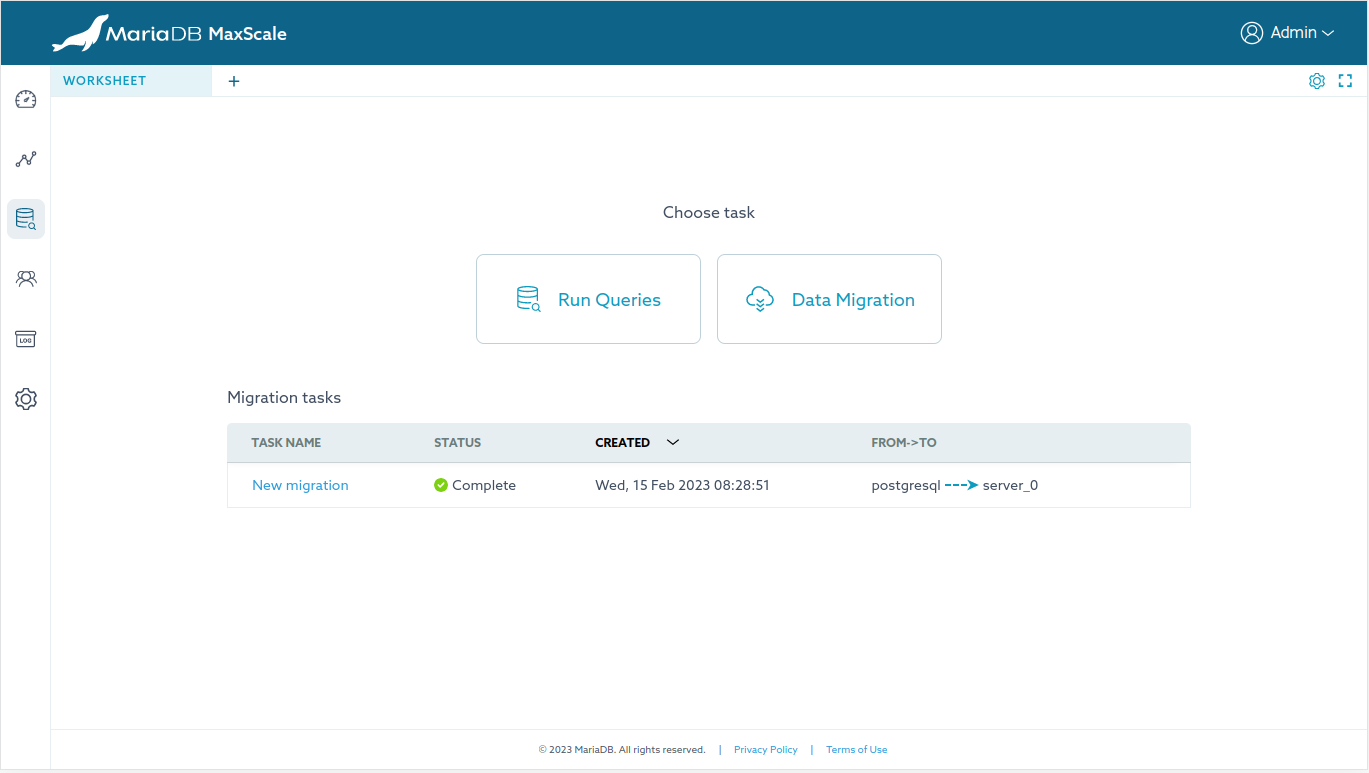
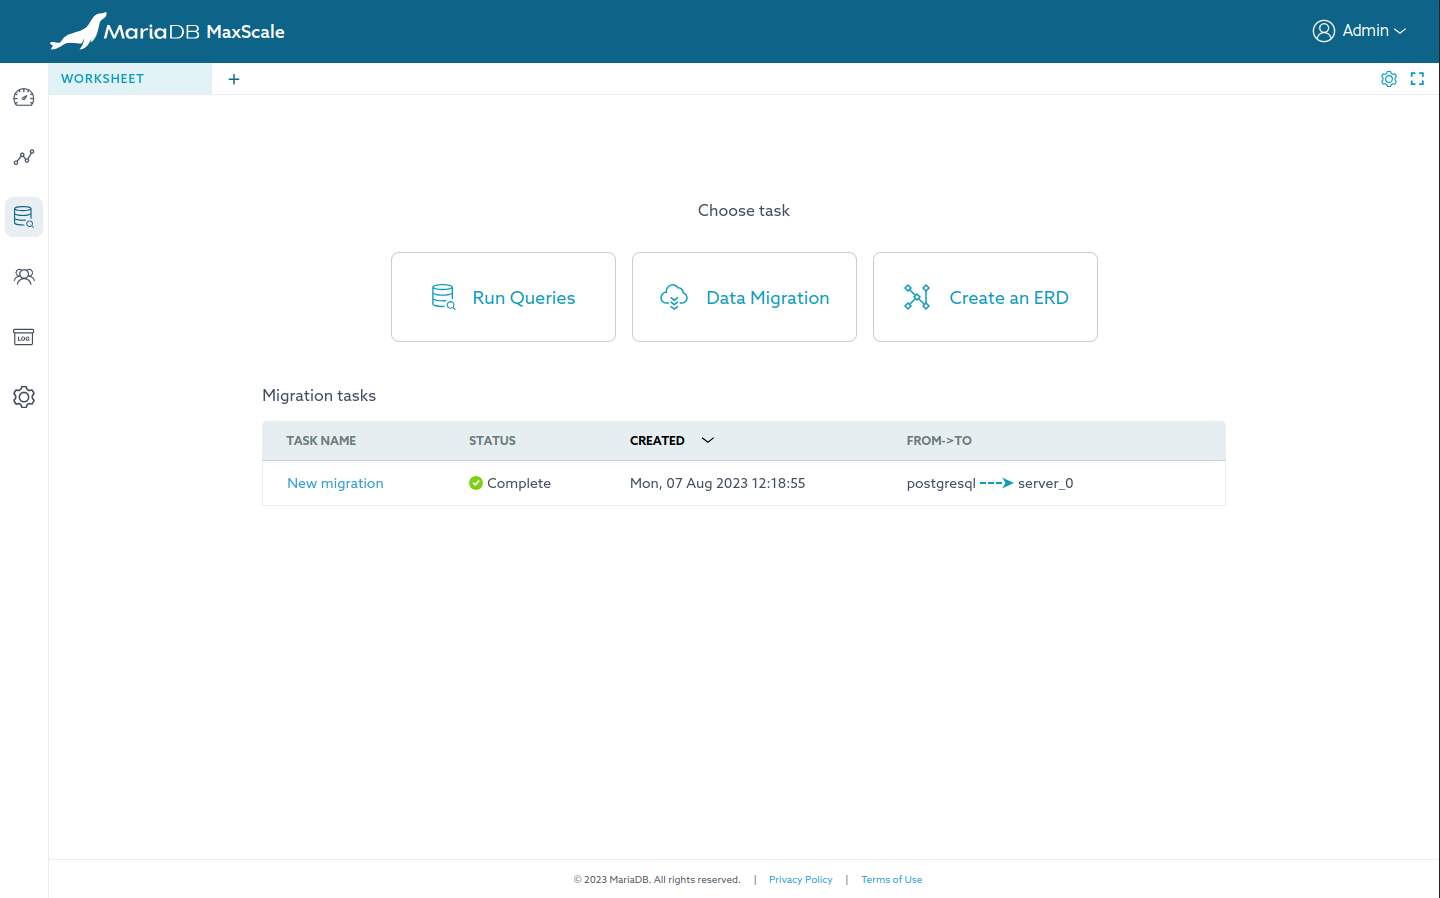
MXS-3735 Update maxgui tutorial and release notes
This adds tutorial for using the ERD and updates
maxgui release notes.

diff --git a/Documentation/Tutorials/Using-MaxGUI-Tutorial.md b/Documentation/Tutorials/Using-MaxGUI-Tutorial.md
@@ -175,13 +175,14 @@ This page show real-time MaxScale logs with filter options.
 
 # Workspace
 
-On this page, you may add numerous worksheets, each of which can be used for either "Run queries" or "Data migration".
+On this page, you may add numerous worksheets, each of which can be used for
+"Run queries", "Data migration" or "Create an ERD" task.
 
 ![MaxGUI MaxScale Workspace](./images/MaxGUI-workspace.png)
 
 ## Run Queries
 
-Clicking on the "Run Queries" card will pop-up a dialog, providing options
+Clicking on the "Run Queries" card will open a dialog, providing options
 to establish a connection to different MaxScale object types, including
 "Listener, Server, Service".
 
@@ -235,7 +236,7 @@ There are two ways to quickly insert an object to the editor:
 
 - Drag the object and drop it in the desire position in the editor.
 - Right-click on the object to show the context menu, then mouse
-hover the `Place to Editor` option and select the desired insert option.
+  hover the `Place to Editor` option and select the desired insert option.
 
 #### Editor
 
@@ -260,9 +261,16 @@ Press CTRL/CMD + D to save the current SQL in the editor to the snippets storage
 A snippet is created with a prefix keyword, so when that keyword is typed in
 the editor, it will be suggested in the "code completion" menu.
 
+#### Generate an ERD
+
+To initiate the process, either right-click on the schema name and select the
+`Generate ERD` option, or click on the icon button that resembles a line graph,
+located on the schemas sidebar. This will open a dialog for selecting the
+tables for the diagram.
+
 ## Data Migration
 
-Clicking on the "Data Migration" card will pop-up a dialog, providing an option
+Clicking on the "Data Migration" card will open a dialog, providing an option
 to name the task. The Data Migration worksheet will be rendered in the active
 worksheet after clicking the `Create` button in the dialog.
 
@@ -270,7 +278,7 @@ worksheet after clicking the `Create` button in the dialog.
 
 MaxScale uses ODBC for extracting and loading from the data source to a server
 in MaxScale. Before starting a migration, ensure that you have set up the
-necessary configurations on the MaxScale server.  Instruction can be found [here](../REST-API/Resources-SQL.md#prepare-etl-operation)
+necessary configurations on the MaxScale server. Instruction can be found [here](../REST-API/Resources-SQL.md#prepare-etl-operation)
 and limitations [here](../About/Limitations.md#etl-limitations).
 
 #### Connections
@@ -323,3 +331,113 @@ To retain the report and terminate open connections after migration, click the
 Deleting the worksheet will not delete the migration task. To clean-up
 everything after migration, click the `Manage` button, then select
 `Delete`.
+
+## Create an ERD
+
+There are various features in the ERD worksheet, the most notable ones are
+listed below.
+
+![MaxGUI Workspace ERD](./images/MaxGUI-workspace-erd.png)
+
+### ERD worksheet
+
+From an empty new worksheet, clicking on the "Create an ERD" card will open a
+connection dialog. After connecting successfully, the ERD worksheet will be
+rendered in the active worksheet. The connection is required to retrieve
+essential metadata, such as engines, character sets, and collation.
+
+#### Generate an ERD from the existing databases
+
+Click on the icon button featured as a line graph, located on the top
+toolbar next to the connection button. This will open a dialog for selecting
+the tables for the diagram.
+
+#### Create a new ERD
+
+New tables can be created by using either of the following methods:
+
+- Click on the icon button that resembles a line graph, located on the
+  top toolbar.
+- Right-click on the diagram board and select the `Create Table`
+  option.
+
+#### Entity options
+
+Two options are available: `Edit Table` and `Remove from Diagram`. These
+options can be accessed using either of the following methods:
+
+- Right-click on the entity and choose the desired option.
+- Hover over the entity, click the gear icon button, and select the desired
+  option.
+
+For quickly editing or viewing the table definitions, double-clicking on the
+entity. The entity editor will be shown at the bottom of the worksheet.
+
+#### Foreign keys quick common options
+
+![MaxGUI Workspace ERD FK Options](./images/MaxGUI-workspace-erd-fk-options.png)
+
+- Edit Foreign Key, this opens an editor for viewing/editing foreign keys.
+- Remove Foreign Key.
+- `Change to One To One` or `Change to One To Many`. Toggling the uniqueness
+  of the foreign key column.
+- `Set FK Column Mandatory` or `Set FK Column Optional`. Toggling the
+  `NOT NULL` option of the foreign key column.
+- `Set Referenced Column Mandatory` or `Set Referenced Column Optional`
+  Toggling the `NOT NULL` option of the referenced column.
+
+To show the above foreign key common options, perform a right-click on the link
+within the diagram.
+
+#### Viewing foreign key constraint SQL
+
+Hover over the link in the diagram, the constraint SQL of that foreign key will
+be shown in a tooltip.
+
+#### Quickly draw a foreign key link
+
+![MaxGUI Workspace ERD FK Quick Option](./images/MaxGUI-workspace-erd-fk-quick-option.png)
+
+As shown in the screenshot, a foreign key can be quickly established by
+performing the following actions:
+
+1. Click on the entity that will have the foreign key.
+2. Click on the connecting point of the desired foreign key column and drag
+   it over the desired referenced column.
+
+#### Entity editor
+
+![MaxGUI Workspace ERD Entity editor](./images/MaxGUI-workspace-erd-entity-editor.png)
+
+Table columns, foreign keys and indexes can be modified via
+the entity editor which can be accessed quickly by double-clicking
+on the entity.
+
+#### Export options
+
+Three options are available: `Copy script to clipboard`, `Export script` and
+`Export as jpeg`. These options can be accessed using either of the following
+methods:
+
+- Right-click on the diagram board and choose the desired option.
+- Click the export icon button, and select the desired option.
+
+#### Applying the script
+
+Click the icon button resembling a play icon to execute the generated script
+for all tables in the diagram. This action will prompt a confirmation dialog
+for script execution. If needed, the script can be manually edited using the
+editor within the dialog.
+
+#### Visual Enhancement options
+
+![MaxGUI Workspace ERD Visual Enhancements](./images/MaxGUI-workspace-erd-visual-enhancements.png)
+
+The first section of the top toolbar, there are options to improve the visual of
+the diagram as follows:
+
+- Change the shape of links
+- Drawing foreign keys to columns
+- Auto-arrange entities
+- Highlight relationship
+- Zoom control

diff --git a/Documentation/Release-Notes/MaxScale-23.08.0-Release-Notes.md b/Documentation/Release-Notes/MaxScale-23.08.0-Release-Notes.md
@@ -98,9 +98,16 @@ variables that is sent to the client during connection creation. By default the
 current number of connections (`threads_connected`) is sent.
 
 ### MaxGUI
+Numerous additions have been added and improvements made to MaxGUI.
+The most notable ones are listed here:
+
+* [MXS-3735](https://jira.mariadb.org/browse/MXS-3735) Add ERD modeler to the
+workspace. Instructions on using it can be found [here](../Tutorials/Using-MaxGUI-Tutorial.md#create-an-erd)
 
 
 ## Bug fixes
+
+### [MXS-4477](https://jira.mariadb.org/browse/MXS-4477) Dashboard graphs refresh unnecessarily
 
 ## Known Issues and Limitations
 

diff --git a/Documentation/Getting-Started/MaxGUI.md b/Documentation/Getting-Started/MaxGUI.md
@@ -94,3 +94,8 @@ like CSV or JSON for further analysis and sharing.
 The "Data Migration" feature facilitates seamless transitions from PostgreSQL
 to MariaDB. Transfer data and database structures between the two systems while
 ensuring data integrity and consistency throughout the process.
+
+### 3. Create an ERD
+
+Generating Entity-Relationship Diagrams (ERDs) to gain insights regarding data
+structure, optimizing database design for both efficiency and clarity.
